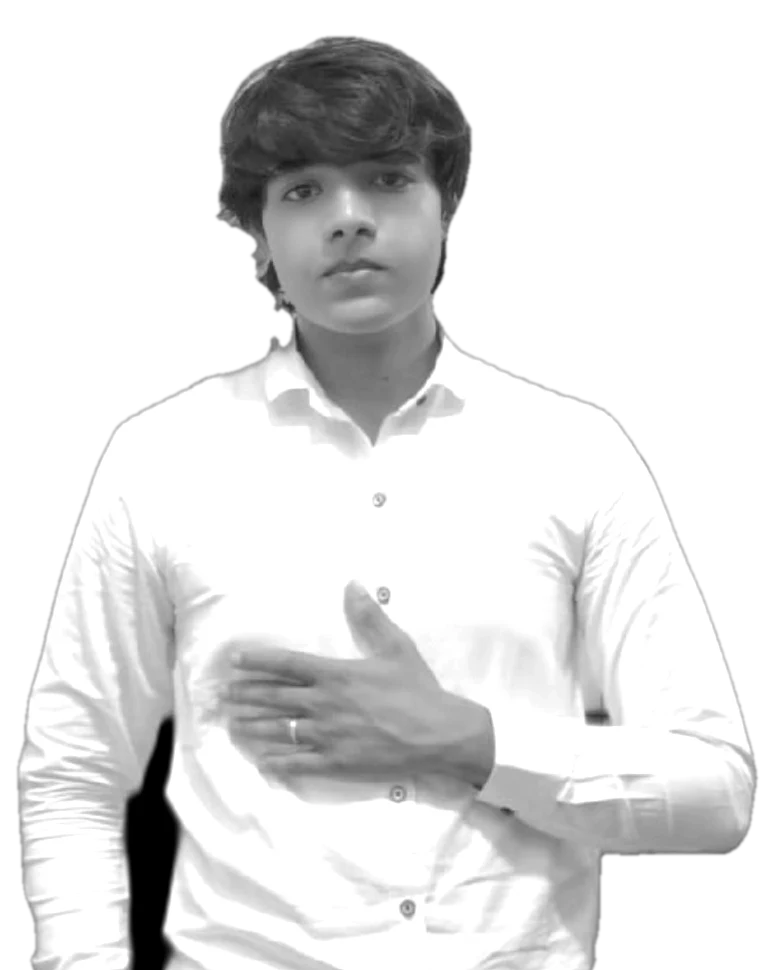
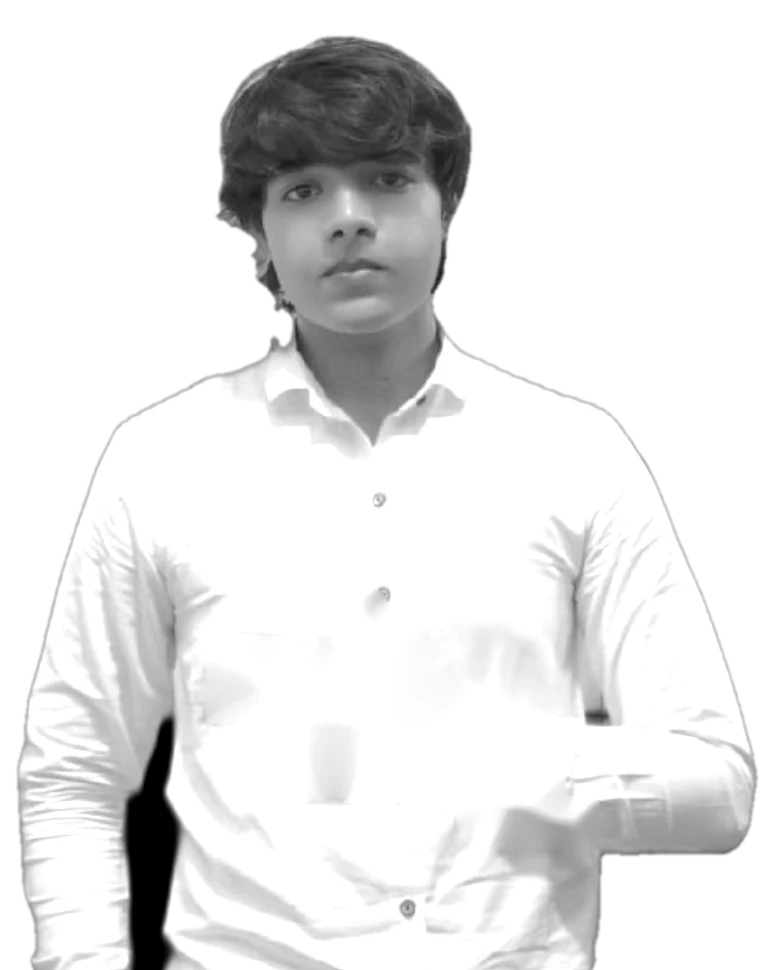
Remove hand from portrait and footer photo
Claude-Session: https://claude.ai/code/session_01XWgZbS1LHAfE8jrSMivopn

Changed region(s): [[0.2462, 0.5876, 0.7692, 0.866]]

diff --git a/src/components/crowd/crowd.tsx b/src/components/crowd/crowd.tsx
@@ -123,7 +123,7 @@ export function Crowd({ name = "ZAID." }: { name?: string }) {
         </defs>
         {people.filter((it) => it.row === 0).map(renderPerson)}
         <g className="standing">
-          <image href="/zaid-standing.webp" x={W / 2 - 194} y={14} width={388} height={482} preserveAspectRatio="xMidYMin meet" filter="url(#ink-outline)" />
+          <image href="/zaid-standing.webp" x={W / 2 - 194} y={40} width={388} height={482} preserveAspectRatio="xMidYMin meet" filter="url(#ink-outline)" />
         </g>
         {people.filter((it) => it.row > 0 && !(it.row === 1 && Math.abs(it.x + 60 * it.scale - W / 2) < 120)).map(renderPerson)}
       </svg>
